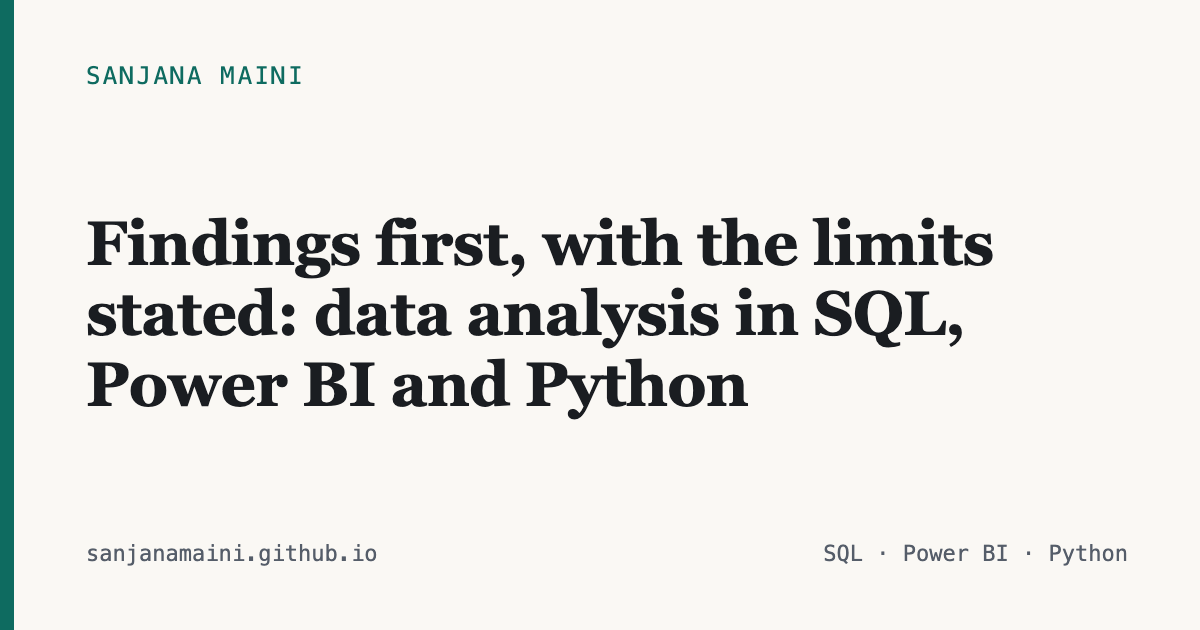
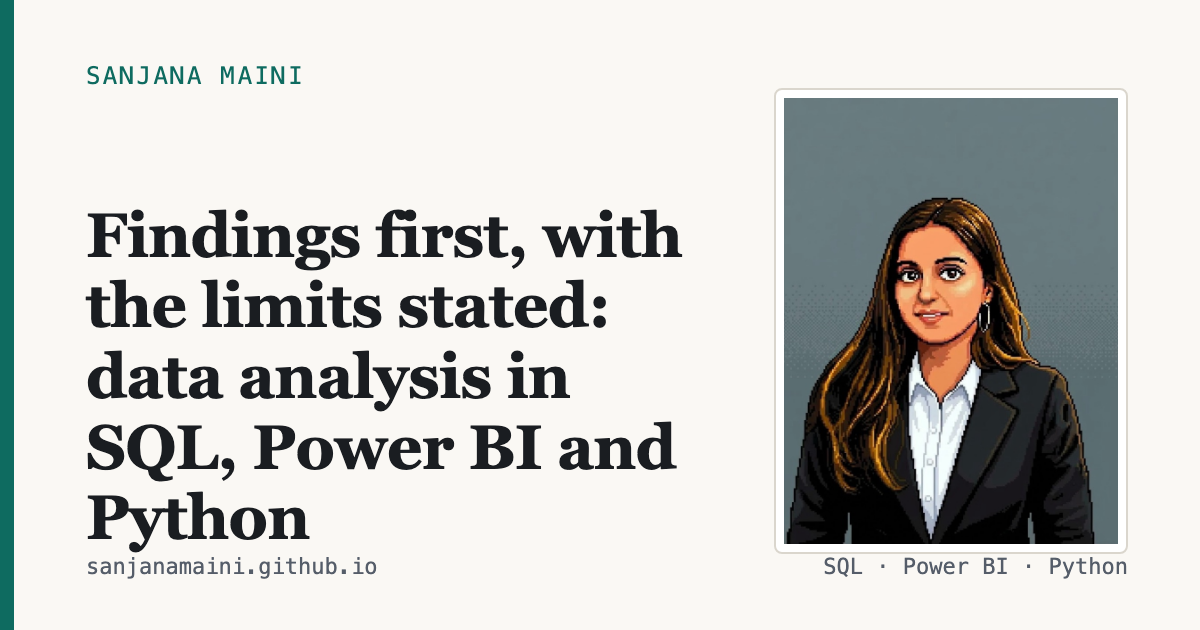
Home redesign: hero with portrait, headline findings strip, project cards with real figures, closing contact block

Changed region(s): [[0.0617, 0.1206, 0.9558, 0.9349]]

diff --git a/index.html b/index.html
@@ -27,18 +27,55 @@
   <a class="mark" href="./">Sanjana Maini</a>
   <nav aria-label="Main"><a href="#projects">Projects</a><a href="#about">About</a><a href="#contact">Contact</a><button class="theme" type="button" id="t" aria-label="Switch light or dark mode">Light / dark</button></nav>
 </div></header>
-<main class="wrap">
-  <h1 class="home">Findings first, with the limits stated</h1>
-  <p class="standfirst">I am a computer science graduate (AI and ML) looking for data and BI analyst roles, or applied AI and automation roles. Each project below starts with its finding, then the question, the data, the method and what it does not show. When a number turns out wrong, the page says so.</p>
+<main>
+<section class="hero wide">
+  <div class="hero-text">
+    <p class="eyebrow">Data analyst · SQL, Power BI, Python</p>
+    <h1>Sanjana Maini</h1>
+    <p class="hero-line">I find the decision inside messy data, and show how sure I am.</p>
+    <p class="hero-p">Computer science graduate (AI and ML) looking for data and BI analyst roles, or applied AI and automation roles. Every project below starts with its finding and states what it does not show. When a number turns out wrong, the page says so.</p>
+    <p class="cta"><a class="btn" href="#projects" data-track="cta_projects">See the projects</a> <a class="btn ghost" href="mailto:sanjumaini18@gmail.com" data-track="email">Email me</a></p>
+    <p class="elsewhere"><a href="https://www.linkedin.com/in/sanjanamaini/" data-track="linkedin" rel="me">LinkedIn</a> <a href="https://github.com/sanjanamaini" data-track="github" rel="me">GitHub</a></p>
+  </div>
+  <figure class="portrait"><img src="assets/me.jpg" width="750" height="1000" alt="Portrait of Sanjana Maini"></figure>
+</section>
+<section class="proof wide" aria-label="Headline findings">
+  <a href="layoff/" data-track="proof" data-project="layoff"><span class="pv">1 in 10</span><span class="pt">companies that cut jobs cut again within six months</span></a>
+  <a href="retail/" data-track="proof" data-project="retail"><span class="pv">£8.25M</span><span class="pt">a wholesaler&#x27;s real revenue, not £8.91M</span></a>
+  <a href="withdrawal/" data-track="proof" data-project="withdrawal"><span class="pv">39.9%</span><span class="pt">of students flagged on day 28 withdraw, against 18.6% overall</span></a>
+  <a href="fraud/" data-track="proof" data-project="fraud"><span class="pv">27%</span><span class="pt">less fraud cost than the default cut-off</span></a>
+</section>
+<div class="wide">
   <h2 id="projects"><span class="n">01</span>Projects, as findings</h2>
-  <table class="hub">
-    <tr><th>Finding</th><th>Status</th><th>Stack</th></tr>
-    <tr><td><a href="layoff/" data-track="project" data-project="layoff">About 1 in 10 companies that cut jobs cut again within six months</a></td><td>Complete</td><td>SQL, Power BI, survival analysis</td></tr>
-    <tr><td><a href="retail/" data-track="project" data-project="retail">A UK wholesaler&#x27;s revenue was <span class="num">£8.25M</span>, not £8.91M: cancellations had been counted as sales</a></td><td>Complete</td><td>Python, pandas, SciPy</td></tr>
-    <tr><td><a href="withdrawal/" data-track="project" data-project="withdrawal">Flagged on day 28, the top 10% of students withdraw at <span class="num">39.9%</span> against <span class="num">18.6%</span> overall</a></td><td>Complete</td><td>Python, scikit-learn, survival analysis</td></tr>
-    <tr><td><a href="fraud/" data-track="project" data-project="fraud">An expected-loss rule cuts fraud cost <span class="num">27%</span> against the default 0.5 cut-off</a></td><td>Complete</td><td>Python, scikit-learn</td></tr>
-    <tr><td><a href="pilot/" data-track="project" data-project="pilot">Five LLM agents operate a browser from a plain-English goal, by reading the screen</a></td><td>Prototype</td><td>Python, FastAPI, Chrome MV3, Gemini</td></tr>
-  </table>
+</div>
+<section class="cards wide">
+  <a class="card-p" href="layoff/" data-track="project" data-project="layoff"><div class="plate"><img src="assets/fig/layoff-km.png" alt="" loading="lazy"></div><span class="meta">Complete &middot; SQL, Power BI, survival analysis</span><span class="ft">About 1 in 10 companies that cut jobs cut again within six months</span></a>
+  <a class="card-p" href="retail/" data-track="project" data-project="retail"><div class="plate"><img src="assets/fig/retail-waterfall.png" alt="" loading="lazy"></div><span class="meta">Complete &middot; Python, pandas, SciPy</span><span class="ft">A UK wholesaler&#x27;s revenue was <span class="num">£8.25M</span>, not £8.91M: cancellations had been counted as sales</span></a>
+  <a class="card-p" href="withdrawal/" data-track="project" data-project="withdrawal"><div class="plate"><img src="assets/fig/withdrawal-day28.png" alt="" loading="lazy"></div><span class="meta">Complete &middot; Python, scikit-learn, survival analysis</span><span class="ft">Flagged on day 28, the top 10% of students withdraw at <span class="num">39.9%</span> against <span class="num">18.6%</span> overall</span></a>
+  <a class="card-p" href="fraud/" data-track="project" data-project="fraud"><div class="plate"><img src="assets/fig/fraud-policy-costs.png" alt="" loading="lazy"></div><span class="meta">Complete &middot; Python, scikit-learn</span><span class="ft">An expected-loss rule cuts fraud cost <span class="num">27%</span> against the default 0.5 cut-off</span></a>
+  <a class="card-p" href="pilot/" data-track="project" data-project="pilot"><div class="plate diagram-plate"><svg viewBox="0 0 760 250" role="img" aria-labelledby="pt pd" class="diagram">
+<title id="pt">The Pilot agent loop</title>
+<desc id="pd">A goal and a screenshot go to a screen interpreter, then a planner, then an action agent that acts in the browser; a verifier checks a fresh screenshot and either sends the run back to the planner or on to the narrator.</desc>
+<defs><marker id="ar" viewBox="0 0 10 10" refX="9" refY="5" markerWidth="7" markerHeight="7" orient="auto-start-reverse"><path d="M0 0L10 5L0 10z" fill="var(--muted)"/></marker></defs>
+<g font-family="var(--sans)" font-size="14" fill="var(--ink)">
+<g stroke="var(--rule)" fill="var(--surface)" stroke-width="1.2">
+<rect x="10" y="40" width="130" height="56" rx="6"/><rect x="170" y="40" width="130" height="56" rx="6"/>
+<rect x="330" y="40" width="130" height="56" rx="6"/><rect x="490" y="40" width="120" height="56" rx="6"/>
+<rect x="630" y="40" width="120" height="56" rx="6"/></g>
+<g text-anchor="middle"><text x="75" y="64">Screen</text><text x="75" y="82">interpreter</text>
+<text x="235" y="73">Planner</text><text x="395" y="64">Action</text><text x="395" y="82">agent</text>
+<text x="550" y="73">Verifier</text><text x="690" y="73">Narrator</text></g>
+<g stroke="var(--muted)" stroke-width="1.5" fill="none" marker-end="url(#ar)">
+<path d="M140 68H168"/><path d="M300 68H328"/><path d="M460 68H488"/><path d="M610 68H628"/></g>
+<path d="M550 98V170H235V100" stroke="var(--accent)" stroke-width="1.5" fill="none" marker-end="url(#ar)" stroke-dasharray="5 4"/>
+<text x="392" y="190" text-anchor="middle" fill="var(--accent)" font-size="13">failed check: replan (capped at 3 per goal)</text>
+<text x="75" y="130" text-anchor="middle" fill="var(--muted)" font-size="12">screenshot in</text>
+<text x="395" y="130" text-anchor="middle" fill="var(--muted)" font-size="12">click, type, scroll</text>
+<text x="550" y="130" text-anchor="middle" fill="var(--muted)" font-size="12">fresh screenshot</text>
+<text x="10" y="232" fill="var(--muted)" font-size="12">Goal in plain English, in a Chrome side panel. Gemini vision reads every screenshot.</text>
+</g></svg></div><span class="meta">Prototype &middot; Python, FastAPI, Chrome MV3, Gemini</span><span class="ft">Five LLM agents operate a browser from a plain-English goal, by reading the screen</span></a>
+</section>
+<div class="wrap">
   <h2 id="about"><span class="n">02</span>About</h2>
   <p>B.Tech in Computer Science and Engineering (AI and ML), SRM University AP, 2021 to 2025. I work on the seam between data and decisions: SQL, Power BI and Python on real datasets, evaluated the way the decision will actually be made.</p>
   <p>I also build systems that act on decisions: Pilot, a five-agent prototype that operates a browser from a plain-English goal. Based in Vijayawada; open to Gurugram, Bengaluru, Hyderabad, Mumbai or remote work. Available from December 2026.</p>
@@ -59,9 +96,12 @@
     <div><dt>Methods</dt><dd>time-based validation, leakage testing, empirical Bayes, survival analysis, expected-loss decision rules</dd></div>
   </dl>
   <p class="note">Product Matters 5.0, E-Cell IIT Guwahati (Certificate of Merit, top 15%). NPTEL Foundations of R Software, IIT Kanpur (Elite + Gold, 94%). Data Analytics Job Simulation, Deloitte (Forage). IBM Exploratory Data Analysis for Machine Learning. Google Foundations of Project Management.</p>
-  <h2 id="contact"><span class="n">05</span>Contact</h2>
+</div>
+<section class="closing" id="contact"><div class="wrap">
+  <h2>Let us talk</h2>
   <p>Open to data and BI analyst roles and applied AI or automation roles, in Gurugram, Bengaluru, Hyderabad, Mumbai or remote. The quickest way to reach me is email.</p>
-  <p><a href="mailto:sanjumaini18@gmail.com" data-track="email">sanjumaini18@gmail.com</a> &middot; <a href="https://www.linkedin.com/in/sanjanamaini/" data-track="linkedin" rel="me">LinkedIn</a> &middot; <a href="https://github.com/sanjanamaini" data-track="github" rel="me">GitHub</a></p>
+  <p class="cta"><a class="btn" href="mailto:sanjumaini18@gmail.com" data-track="email">sanjumaini18@gmail.com</a> <a class="btn ghost" href="https://www.linkedin.com/in/sanjanamaini/" data-track="linkedin" rel="me">LinkedIn</a> <a class="btn ghost" href="https://github.com/sanjanamaini" data-track="github" rel="me">GitHub</a></p>
+</div></section>
 </main>
 <footer class="site"><div class="wrap">
   <a href="mailto:sanjumaini18@gmail.com" data-track="email">sanjumaini18@gmail.com</a> &middot;

diff --git a/assets/style.css b/assets/style.css
@@ -90,3 +90,44 @@ pre#out{white-space:pre-wrap;word-break:break-all}
   table.hub td:nth-child(2),table.hub td:nth-child(3){display:inline;font-size:.85rem;color:var(--muted);font-family:var(--mono)}
   table.hub td:nth-child(2)::after{content:" \00b7 "}
 }
+
+/* ---- home redesign ---- */
+.hero{display:grid;grid-template-columns:1.3fr .7fr;gap:3.5rem;align-items:center;padding-top:4rem;padding-bottom:3rem}
+.eyebrow{font-family:var(--mono);font-size:.85rem;letter-spacing:.08em;text-transform:uppercase;color:var(--accent);margin:0 0 1rem}
+.hero h1{font-size:clamp(3rem,8vw,5.2rem);line-height:1.02;margin:0 0 1rem;letter-spacing:-.02em}
+.hero-line{font-family:var(--serif);font-size:clamp(1.4rem,3vw,1.9rem);line-height:1.3;margin:0 0 1.25rem;font-weight:500}
+.hero-p{color:var(--muted);max-width:34rem;margin:0 0 1.75rem}
+.cta{display:flex;flex-wrap:wrap;gap:.75rem;margin:0 0 1.25rem}
+.btn{display:inline-block;background:var(--accent);color:var(--on-accent);text-decoration:none;padding:.7rem 1.3rem;border-radius:4px;font-weight:600;font-size:1rem;border:1px solid var(--accent)}
+.btn:hover{filter:brightness(1.1)}
+.btn.ghost{background:transparent;color:var(--accent)}
+.elsewhere a{margin-right:1.25rem;color:var(--muted);font-size:.95rem}
+.portrait{margin:0}
+.portrait img{display:block;width:100%;height:auto;border-radius:6px;border:1px solid var(--rule);box-shadow:0 1px 0 var(--rule)}
+.proof{display:grid;grid-template-columns:repeat(4,1fr);gap:0;border-top:1px solid var(--rule);border-bottom:1px solid var(--rule);margin-bottom:1rem}
+.proof a{display:block;padding:1.4rem 1.2rem 1.4rem 0;text-decoration:none;color:var(--ink);border-top:3px solid transparent;margin-top:-1px}
+.proof a+a{padding-left:1.2rem;border-left:1px solid var(--rule)}
+.proof a:hover{border-top-color:var(--accent)}
+.pv{display:block;font-family:var(--mono);font-size:clamp(1.7rem,3.4vw,2.4rem);color:var(--accent);line-height:1.1;margin-bottom:.4rem}
+.pt{display:block;font-size:.92rem;line-height:1.45;color:var(--muted)}
+.cards{display:grid;grid-template-columns:repeat(2,1fr);gap:1.5rem;margin-bottom:1rem}
+.card-p{display:flex;flex-direction:column;gap:.7rem;text-decoration:none;color:var(--ink);padding:1rem;background:var(--surface);border:1px solid var(--rule);border-radius:6px}
+.card-p:hover{border-color:var(--accent)}
+.card-p .plate{background:#fff;border:1px solid var(--rule);border-radius:4px;height:12rem;display:flex;align-items:center;justify-content:center;padding:.5rem;overflow:hidden}
+.card-p .plate img{max-width:100%;max-height:100%;width:auto;height:auto}
+.card-p .diagram-plate{background:var(--surface)}
+.card-p .meta{font-family:var(--mono);font-size:.75rem;letter-spacing:.04em;color:var(--muted);text-transform:uppercase}
+.card-p .ft{font-family:var(--serif);font-size:1.25rem;line-height:1.3;font-weight:500}
+.card-p:hover .ft{color:var(--accent)}
+.closing{background:var(--surface);border-top:1px solid var(--rule);margin-top:3rem;padding:3rem 0}
+.closing h2{margin-top:0;font-size:2rem}
+@media (max-width:820px){
+  .hero{grid-template-columns:1fr;gap:2rem;padding-top:2rem}
+  .portrait{max-width:15rem;order:-1}
+  .proof{grid-template-columns:1fr 1fr}
+  .proof a:nth-child(3){padding-left:0;border-left:0}
+  .proof a:nth-child(n+3){border-top:1px solid var(--rule)}
+  .cards{grid-template-columns:1fr}
+}
+.card-p:last-child:nth-child(odd){grid-column:1/-1}
+.card-p:last-child:nth-child(odd) .plate{height:13rem}

diff --git a/build.py b/build.py
@@ -158,15 +158,27 @@ def figure(p, f, r):
 
 # ---------- home page ----------
 def home_page():
-    s = SITE; path = "/"
+    s = SITE; path = "/"; h = s["hero"]
     out = [head("Sanjana Maini | Data analyst: findings, with the limits stated", s["description"], path, "og/home.png"), header(path)]
-    out.append('<main class="wrap">\n')
-    out.append(f'  <h1 class="home">{rich(s["hero_title"])}</h1>\n  <p class="standfirst">{rich(s["hero_text"])}</p>\n')
-    out.append('  <h2 id="projects"><span class="n">01</span>Projects, as findings</h2>\n')
-    out.append('  <table class="hub">\n    <tr><th>Finding</th><th>Status</th><th>Stack</th></tr>\n')
+    out.append('<main>\n<section class="hero wide">\n  <div class="hero-text">\n')
+    out.append(f'    <p class="eyebrow">{esc(h["eyebrow"])}</p>\n    <h1>{esc(h["name"])}</h1>\n    <p class="hero-line">{esc(h["line"])}</p>\n    <p class="hero-p">{esc(h["text"])}</p>\n')
+    out.append(f'    <p class="cta"><a class="btn" href="#projects" data-track="cta_projects">See the projects</a> <a class="btn ghost" href="mailto:{s["email"]}" data-track="email">Email me</a></p>\n')
+    out.append(f'    <p class="elsewhere"><a href="{s["linkedin"]}" data-track="linkedin" rel="me">LinkedIn</a> <a href="{s["github"]}" data-track="github" rel="me">GitHub</a></p>\n  </div>\n')
+    if h.get("photo"):
+        out.append(f'  <figure class="portrait"><img src="{h["photo"]}" width="750" height="1000" alt="{esc(h["photo_alt"])}"></figure>\n')
+    out.append('</section>\n')
+    out.append('<section class="proof wide" aria-label="Headline findings">\n')
+    for q in s["proof"]:
+        out.append(f'  <a href="{q["slug"]}/" data-track="proof" data-project="{q["slug"]}"><span class="pv">{esc(q["v"])}</span><span class="pt">{esc(q["t"])}</span></a>\n')
+    out.append('</section>\n<div class="wide">\n')
+    out.append('  <h2 id="projects"><span class="n">01</span>Projects, as findings</h2>\n</div>\n<section class="cards wide">\n')
     for p in PROJECTS:
-        out.append(f'    <tr><td><a href="{p["slug"]}/" data-track="project" data-project="{p["slug"]}">{rich(p["hub"])}</a></td><td>{esc(p["status"])}</td><td>{esc(p["stack"])}</td></tr>\n')
-    out.append('  </table>\n')
+        if p.get("thumb"):
+            fig = f'<div class="plate"><img src="assets/fig/{p["thumb"]}" alt="" loading="lazy"></div>'
+        else:
+            fig = f'<div class="plate diagram-plate">{PIPELINE_SVG}</div>'
+        out.append(f'  <a class="card-p" href="{p["slug"]}/" data-track="project" data-project="{p["slug"]}">{fig}<span class="meta">{esc(p["status"])} &middot; {esc(p["stack"])}</span><span class="ft">{rich(p["hub"])}</span></a>\n')
+    out.append('</section>\n<div class="wrap">\n')
     out.append('  <h2 id="about"><span class="n">02</span>About</h2>\n')
     out.extend(f'  <p>{rich(t)}</p>\n' for t in s["about"])
     out.append('  <h2><span class="n">03</span>Experience</h2>\n  <dl class="rows">\n')
@@ -178,10 +190,9 @@ def home_page():
     for k, v in s["skills"]:
         out.append(f'    <div><dt>{esc(k)}</dt><dd>{esc(v)}</dd></div>\n')
     out.append('  </dl>\n')
-    out.append(f'  <p class="note">{esc(s["certifications"])}</p>\n')
-    out.append('  <h2 id="contact"><span class="n">05</span>Contact</h2>\n')
-    out.append(f'  <p>{rich(s["contact_text"])}</p>\n')
-    out.append(f'  <p><a href="mailto:{s["email"]}" data-track="email">{s["email"]}</a> &middot; <a href="{s["linkedin"]}" data-track="linkedin" rel="me">LinkedIn</a> &middot; <a href="{s["github"]}" data-track="github" rel="me">GitHub</a></p>\n')
+    out.append(f'  <p class="note">{esc(s["certifications"])}</p>\n</div>\n')
+    out.append(f'<section class="closing" id="contact"><div class="wrap">\n  <h2>Let us talk</h2>\n  <p>{rich(s["contact_text"])}</p>\n')
+    out.append(f'  <p class="cta"><a class="btn" href="mailto:{s["email"]}" data-track="email">{s["email"]}</a> <a class="btn ghost" href="{s["linkedin"]}" data-track="linkedin" rel="me">LinkedIn</a> <a class="btn ghost" href="{s["github"]}" data-track="github" rel="me">GitHub</a></p>\n</div></section>\n')
     out.append('</main>\n')
     out.append(footer(path))
     return "".join(out)
@@ -245,7 +256,7 @@ print("pages:", ", ".join(pages))
 
 # ---------- link-preview cards (1200x630) ----------
 def card_html(c):
-    fig = f'<div class="thumb"><img src="file://{ROOT}/assets/fig/{c["image"]}"></div>' if c.get("image") else ""
+    fig = f'<div class="thumb"><img src="file://{ROOT}/assets/{"" if c["image"]=="me.jpg" else "fig/"}{c["image"]}"></div>' if c.get("image") else ""
     return f"""<!doctype html><meta charset=utf-8><style>
 *{{box-sizing:border-box;margin:0}}body{{width:1200px;height:630px;background:#FAF8F4;color:#1A1D21;font-family:Georgia,'Times New Roman',serif;padding:64px 72px;display:flex;flex-direction:column;justify-content:space-between;border-left:14px solid #0E6B60}}
 .e{{font:500 24px/1 Menlo,monospace;letter-spacing:.1em;text-transform:uppercase;color:#0E6B60}}
